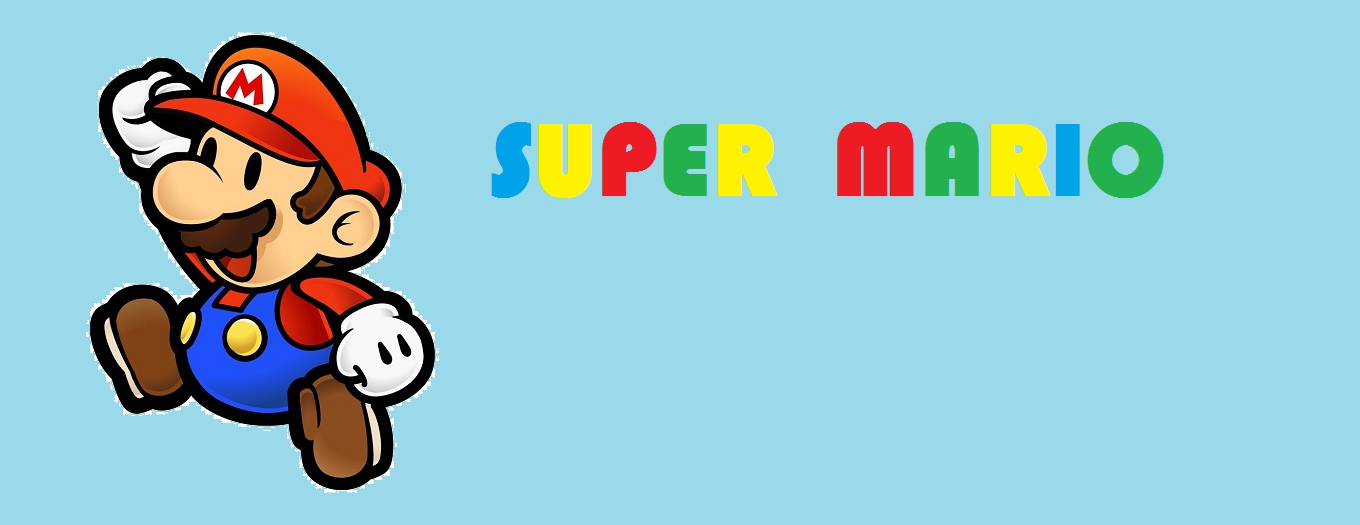
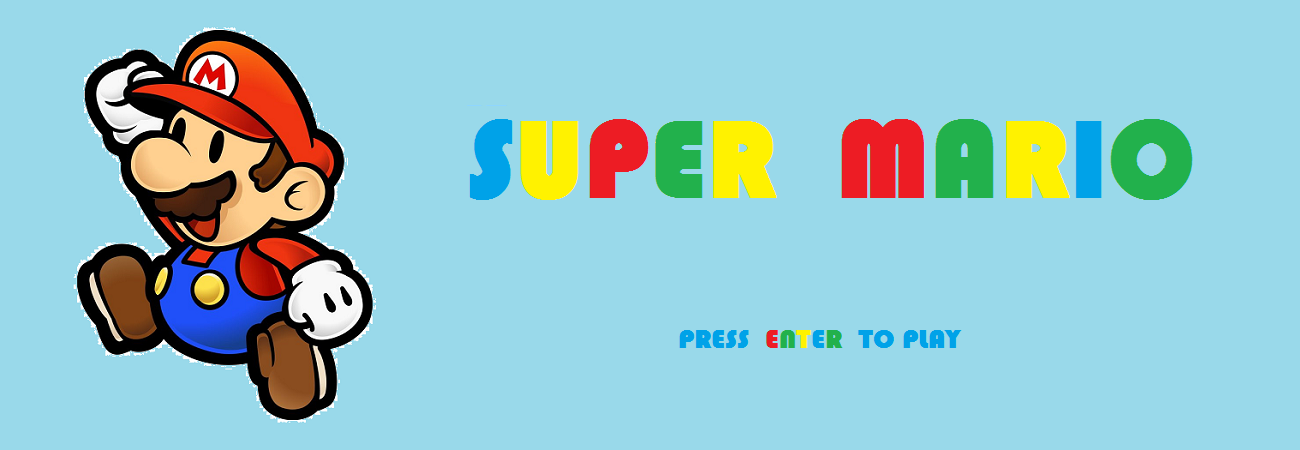
I can't remember what I did, but I made progress

Changed region(s): [[0.0615, 0.0622, 0.3385, 0.9644], [0.3385, 0.2178, 0.9231, 0.4667], [0.5231, 0.7156, 0.7385, 0.7778]]

diff --git a/public_html/js/screens/title.js b/public_html/js/screens/title.js
@@ -5,6 +5,13 @@ game.TitleScreen = me.ScreenObject.extend({
 	onResetEvent: function() {	
 		var titleImage = new me.Sprite (0, 0, me.loader.getImage("title-screen"));
                 me.game.world.addChild (titleImage, 1);
+                me.input.bindKey(me.input.KEY.ENTER, "start");
+                
+                this.handler = me.event.subscribe(me.event.KEYDOWN, function(action, keyCode, edge){
+                    if (action === "start"){
+                        me.state.change(me.state.PLAY);
+                    }
+                });
 	},
 	
 	

diff --git a/public_html/js/entities/entities.js b/public_html/js/entities/entities.js
@@ -13,7 +13,7 @@ game.PlayerEntity = me.Entity.extend({
         }]);
     
         this.renderable.addAnimation("idle", [3]);
-        this.renderable.addAnimation("smallWalk", [8, 9, 10, 11, 12], 100);
+        this.renderable.addAnimation("smallWalk", [14, 15, 16, 17, 18], 100);
         
         this.renderable.setCurrentAnimation("idle");
         

diff --git a/public_html/js/game.js b/public_html/js/game.js
@@ -12,7 +12,7 @@ var game = {
 	// Run on page load.
 	"onload" : function () {
 	// Initialize the video.
-	if (!me.video.init("screen",  me.video.CANVAS, 1670, 525, true, 1.0)) {
+	if (!me.video.init("screen",  me.video.CANVAS, 1300, 450, true, 1.0)) {
 		alert("Your browser does not support HTML5 canvas.");
 		return;
 	}

diff --git a/public_html/index.css b/public_html/index.css
@@ -1,6 +1,6 @@
 body {
 	background-color: #000;
-	color: #fff;
+	
 
 	/* Allow mouse dragging. */
 	-moz-user-select: none;
@@ -31,5 +31,5 @@ body {
 	image-rendering: optimize-contrast;
 	-ms-interpolation-mode: nearest-neighbor;
         
-        padding-top: 62.5px;
+        padding-top: 115px;
 }
